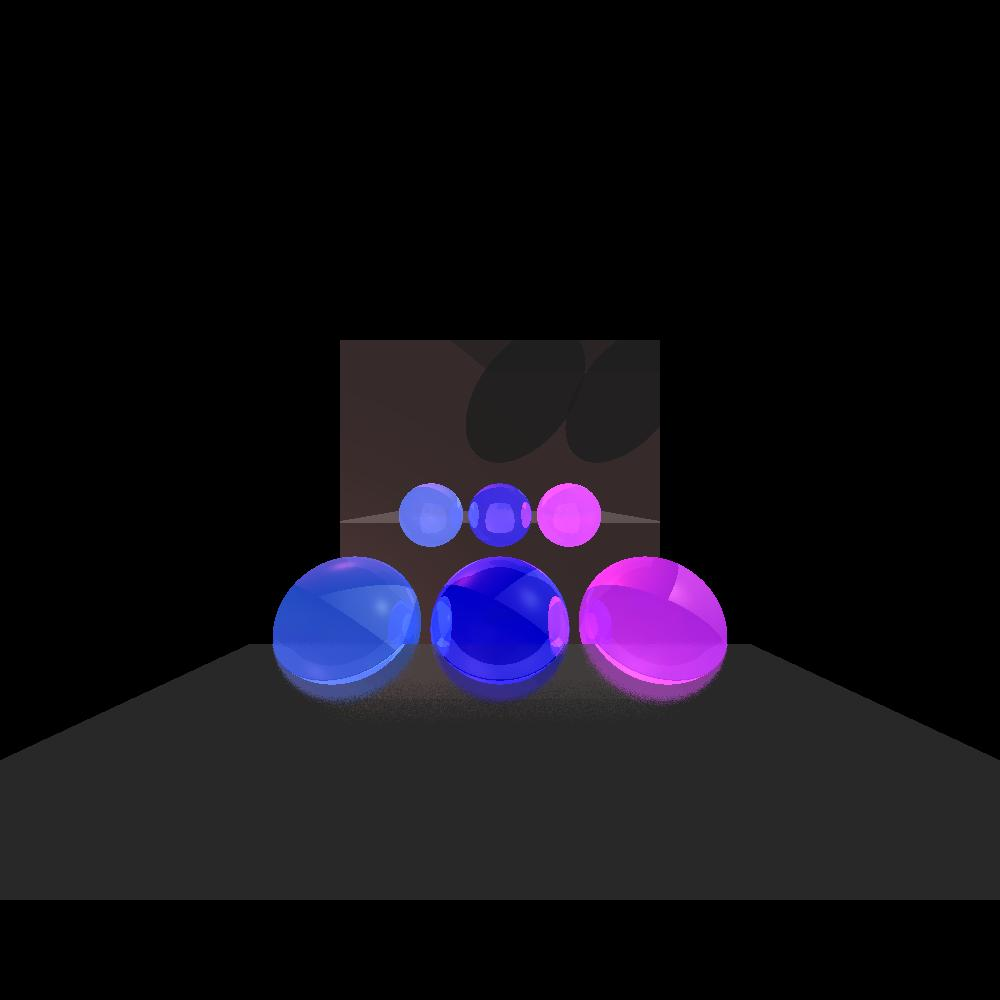
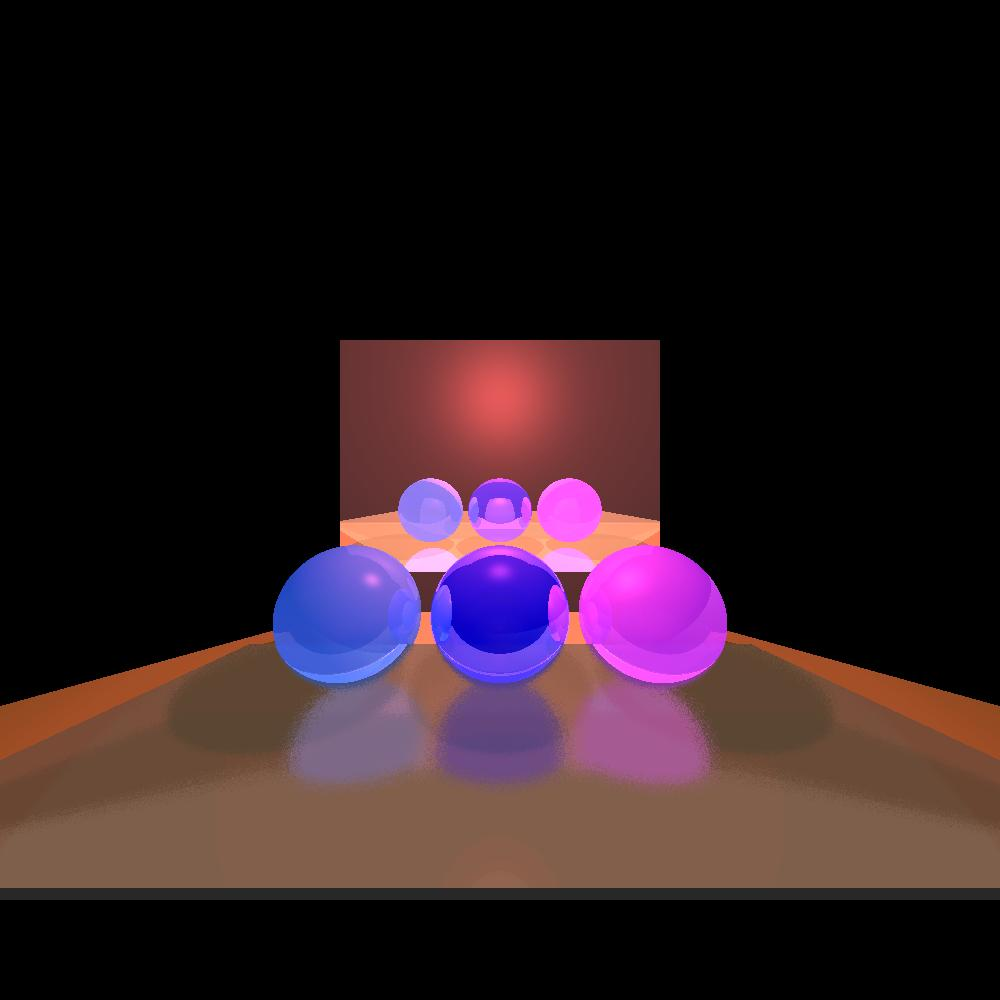
hI

diff --git a/AllLevels/src/UnitTests/MultipleRefractionRaysTest.java b/AllLevels/src/UnitTests/MultipleRefractionRaysTest.java
@@ -44,14 +44,12 @@ public class MultipleRefractionRaysTest {
 								   new Vector(0,1,0),
 								   new Vector(0,0,1)));
      	scene.setScreenDistance(400);
- //    	scene.setAmbientLight(new Color(255,255,255), 0);
- //    	scene.setBackground(Color.WHITE);
 //	**************************** Background  **********************************   	//
      	
      	Quadrangle qFloor = new Quadrangle(new Point3D(-600,-200, 200), // left-down corner
      								   new Point3D( 600, -200, 200),//right-down corner 
-     					 			   new Point3D( 200, -300, 500), // right-up corner
-     					 			   new Point3D( -200, -300, 500));// left-up corner
+     					 			   new Point3D( 200, -140, 500), // right-up corner
+     					 			   new Point3D( -200, -140, 500));// left-up corner
      	qFloor.setEmmission(new Color(100,60,20));
      	qFloor.setShininess(80);
      	qFloor.setKr(1);
@@ -80,27 +78,27 @@ public class MultipleRefractionRaysTest {
      	qOppWall.setKt(0.6);
      	
      	scene.addGeometry(qGlass);
-//     	scene.addGeometry(qFloor);
- //    	scene.addGeometry(qOppWall);
+     	scene.addGeometry(qFloor);
+    	scene.addGeometry(qOppWall);
      	
 //**************************** Spheres  ********************************** //
      	
 
      	// mirror sphere 2 - left up
-     	Sphere rightRightBack = new Sphere(new Color (140,30,180), 60, new Point3D(130,-110,350));
+     	Sphere rightRightBack = new Sphere(new Color (140,30,180), 60, new Point3D(130,-100,350));
      	rightRightBack.setShininess(10);
      	rightRightBack.setKr(0.2);
      	rightRightBack.setKt(0.2);
     
 
      	// main blue circle
-		Sphere blueBig = new Sphere(new Color(0, 0, 150), 60, new Point3D(0, -110, 350));
+		Sphere blueBig = new Sphere(new Color(0, 0, 150), 60, new Point3D(0, -100, 350));
 		blueBig.setShininess(20);
 		blueBig.setKr(0.8);
         blueBig.setKt(0.2);
 		
         // Inner little sphere 
-		Sphere leftLittleBlue = new Sphere(new Color(30, 60, 160), 60, new Point3D(-130, -110, 350));
+		Sphere leftLittleBlue = new Sphere(new Color(30, 60, 160), 60, new Point3D(-130, -100, 350));
 		leftLittleBlue.setShininess(40);
 		leftLittleBlue.setKr(0.2);
 		leftLittleBlue.setKt(0.2);
@@ -118,11 +116,13 @@ public class MultipleRefractionRaysTest {
 		
 		SpotLight spotRightBack = new SpotLight(new Color(40,40,20), new Point3D(200,100,250), 
 												new Vector(-1,-1,1), 0, 0.00001, 0.000005);
-			
+		
+		PointLight up = new PointLight(new Color(100,30,30), new Point3D(0,100,300), 0, 0.00001, 0.000005);
 		scene.addLight(spotRightBack);
-		scene.addLight(spotLeftMiddle);
-//		scene.addLight(pointLeftUP);
-		scene.addLight(dir);
+		scene.addLight(up);
+//		scene.addLight(spotLeftMiddle);
+		//scene.addLight(pointLeftUP);
+//		scene.addLight(dir);
 				
 //************************************* Triangles  ********************************** //   		
 		
@@ -144,13 +144,6 @@ public class MultipleRefractionRaysTest {
 		tBetweenCameraAndGeometries.setKt(1);
 
 //		scene.addGeometry(tBetweenCameraAndGeometries);
-		
-//*********************************** Not in use  ********************************** //       	
-		
-		Tube t = new Tube(new Material(19,0.3,0.3,0.5,0.5), new Color(120,120,120), 150, 
-						  new Point3D(-100,0,200), new Point3D(100,0,200));
-		
-//		scene.addGeometry(t);
      	
 //**************************** Rendering  ********************************** //     	
      	ImageWriter imageWriter = new ImageWriter("", 1000, 1000, 1000, 1000);

diff --git a/AllLevels/src/UnitTests/BoxingTest.java b/AllLevels/src/UnitTests/BoxingTest.java
@@ -33,7 +33,7 @@ public class BoxingTest {
 	  public void bigImageTest() throws Exception {    
 	    Scene scene = new Scene();
 	    
-	//    scene.boxing = true;
+//	    scene.boxing = true;
 
 	    scene.setCamera((new Camera(new Point3D(-5000,0,0), new Vector(1,0,0), new Vector(0,1,0),1))); //NOTE: in this test, vTo is NOT the usual 0,0,-1. It is 1,0,0!!
 	    scene.setScreenDistance(5300);
@@ -47,26 +47,25 @@ public class BoxingTest {
 	    
 
 	    // Remove this loop and all it's contents if you wish the rendering to take less than 30 minutes!!
-//	    for (double x = -50; x<=50; x+=5)
-//	    	for (double y = -(50-Math.abs(x)); y<=50-Math.abs(x); y+=5) {
-//	    		double z = Math.sqrt(2500 - x*x - y*y);
-//	    		s = new Sphere(5, new Point3D(x + 60, y, z),new Color((int)Math.abs(x+y+z)%25,
-//	    				(int)Math.abs(x+y+z+10)%25,
-//	    				(int)Math.abs(x+y+z+20)%25));
-//	    		s.setMaterial(new Material(1.0,0.1,0,0.6,99));
-//	    		//s.setShininess(99);
-//	    		scene.addGeometry(s);
-//	    		if (z != 0 ) {
-//	    			
-//	    			s = new Sphere(5, new Point3D(x + 60, y,-z),new Color((int)Math.abs(x+y+z)%25,
-//	    					(int)Math.abs(x+y+z+10)%25,
-//	    					(int)Math.abs(x+y+z+20)%25));
-//	    			s.setMaterial(new Material(1.0,0.1,0,0.6,99));
-//	    		//	s.setShininess(99);
-//	    			scene.addGeometry(s);
-//	    		}
-//	        
-//	      }
+	    for (double x = -50; x<=50; x+=5)
+	    	for (double y = -(50-Math.abs(x)); y<=50-Math.abs(x); y+=5) {
+	    		double z = Math.sqrt(2500 - x*x - y*y);
+	    		s = new Sphere(5, new Point3D(x + 60, y, z),new Color((int)Math.abs(x+y+z)%25,
+	    				(int)Math.abs(x+y+z+10)%25,
+	    				(int)Math.abs(x+y+z+20)%25));
+	    		s.setMaterial(new Material(1.0,0.1,0,0.6,99));
+	    		//s.setShininess(99);
+	    		scene.addGeometry(s);
+	    		if (z != 0 ) {
+	    			
+	    			s = new Sphere(5, new Point3D(x + 60, y,-z),new Color((int)Math.abs(x+y+z)%25,
+	    					(int)Math.abs(x+y+z+10)%25,
+	    					(int)Math.abs(x+y+z+20)%25));
+	    			s.setMaterial(new Material(1.0,0.1,0,0.6,99));
+	    		//	s.setShininess(99);
+	    			scene.addGeometry(s);
+	    		}
+	      }
 
 	    s = new Sphere(70, new Point3D(80, 0,120),new Color(0,0,0));
 	    s.setMaterial(new Material(0.05,1,1,0,15));

diff --git a/AllLevels/src/geometries/Triangle.java b/AllLevels/src/geometries/Triangle.java
@@ -54,9 +54,9 @@ public class Triangle extends Geometry implements FlatGeometry, Boxable {
 	public Point3D getP1() {return new Point3D(_p1);}
 	public Point3D getP2() {return new Point3D(_p2);}
 	public Point3D getP3() {return new Point3D(_p3);}
-	public void setP1(Point3D p1) {p1=new Point3D(_p1);}
-	public void setP2(Point3D p2) {p2=new Point3D(_p2);}
-	public void setP3(Point3D p3) {p3=new Point3D(_p3);}
+	public void setP1(Point3D p1) {_p1=new Point3D(p1);}
+	public void setP2(Point3D p2) {_p2=new Point3D(p2);}
+	public void setP3(Point3D p3) {_p3=new Point3D(p3);}
 
 	// ***************** Operations ******************** //
 	@Override
